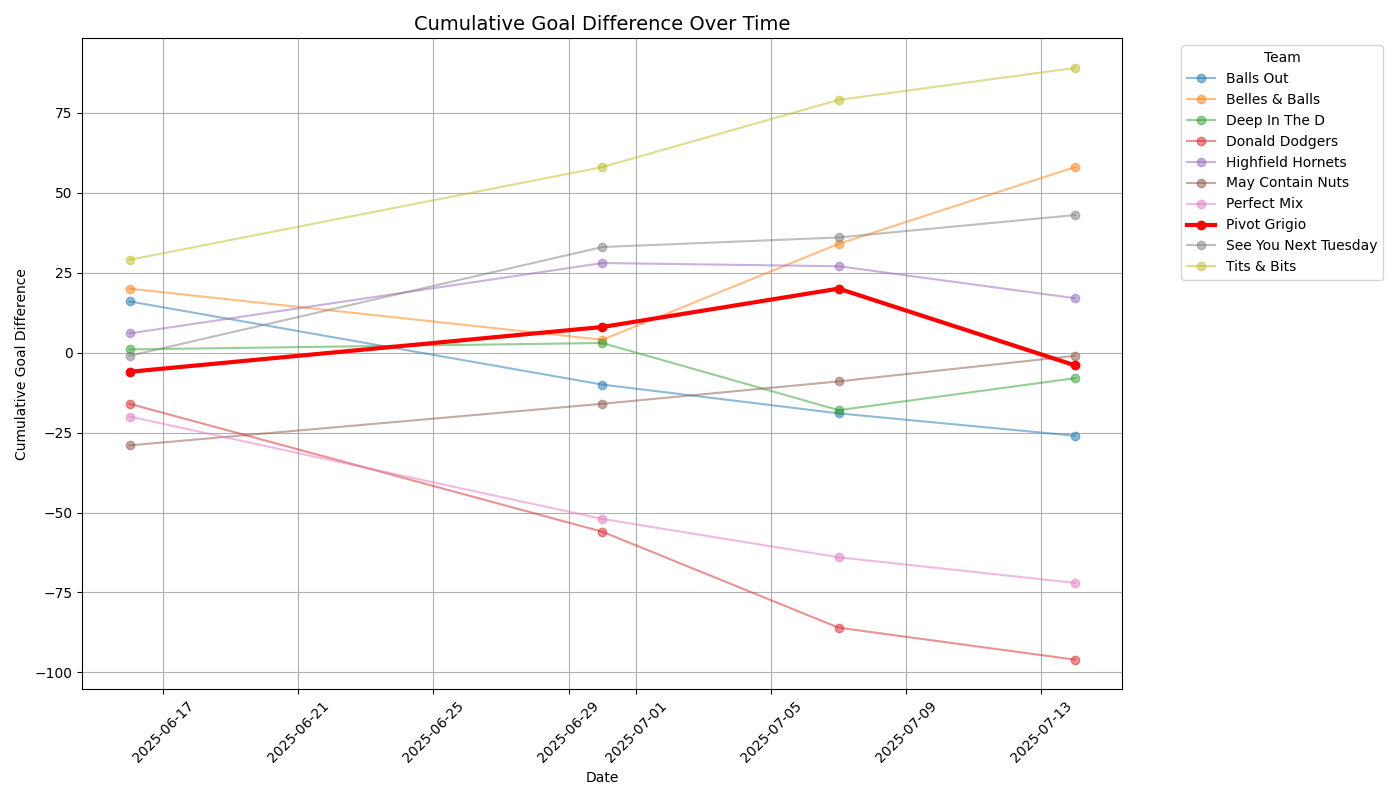
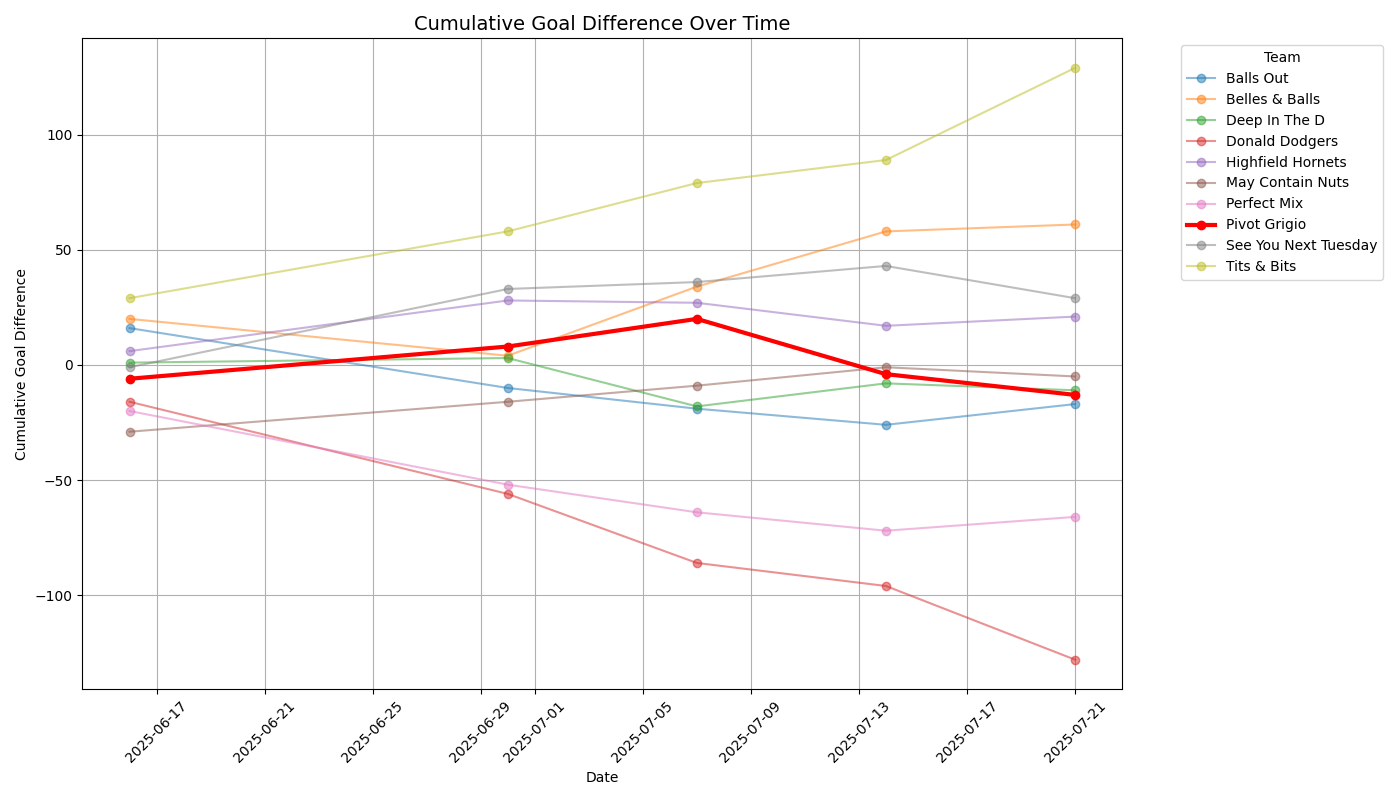
Update with new data

diff --git a/netball_plot.py b/netball_plot.py
@@ -90,12 +90,31 @@ def load_all_data() -> pd.DataFrame:
         'Points': [27, 25, 22, 21, 20, 16, 13, 12, 4, 1]
     }
 
+    # New data from the provided image (21/07/2025)
+    data5 = {
+        'Position': [1, 2, 3, 4, 5, 6, 7, 8, 9, 10],
+        'Team': ['Tits & Bits', 'See You Next Tuesday', 'Highfield Hornets',
+                 'Belles & Balls', 'May Contain Nuts', 'Deep In The D', 'Balls Out',
+                 'Pivot Grigio', 'Perfect Mix', 'Donald Dodgers'],
+        'Played': [7, 7, 7, 7, 7, 6, 7, 6, 7, 7],
+        'Won': [7, 5, 4, 4, 4, 3, 3, 2, 1, 0],
+        'Lost': [0, 2, 2, 2, 3, 3, 4, 4, 6, 7],
+        'Drawn': [0, 0, 1, 1, 0, 0, 0, 0, 0, 0],
+        'Goals For': [221, 143, 154, 187, 119, 126, 129, 116, 86, 51],
+        'Goals Against': [92, 114, 133, 126, 124, 137, 146, 129, 152, 179],
+        'Goal Diff': [129, 29, 21, 61, -5, -11, -17, -13, -66, -128],
+        'Goal average': [2.40, 1.25, 1.16, 1.48, 0.96, 0.92, 0.88, 0.90, 0.57, 0.28],
+        'Points': [35, 27, 26, 25, 24, 18, 18, 13, 9, 2]
+    }
+
+
     df1 = create_dataframe(data1, '16/06/2025')
     df2 = create_dataframe(data2, '07/07/2025')
     df3 = create_dataframe(data3, '30/06/2025')
-    df4 = create_dataframe(data4, '14/07/2025') # New data from image, renamed to df4
+    df4 = create_dataframe(data4, '14/07/2025')
+    df5 = create_dataframe(data5, '21/07/2025') # New data from image
 
-    return pd.concat([df1, df2, df3, df4], ignore_index=True)
+    return pd.concat([df1, df2, df3, df4, df5], ignore_index=True)
 
 
 def plot_cumulative_metrics(df: pd.DataFrame, metrics: list[str], metric_labels: dict) -> None:
